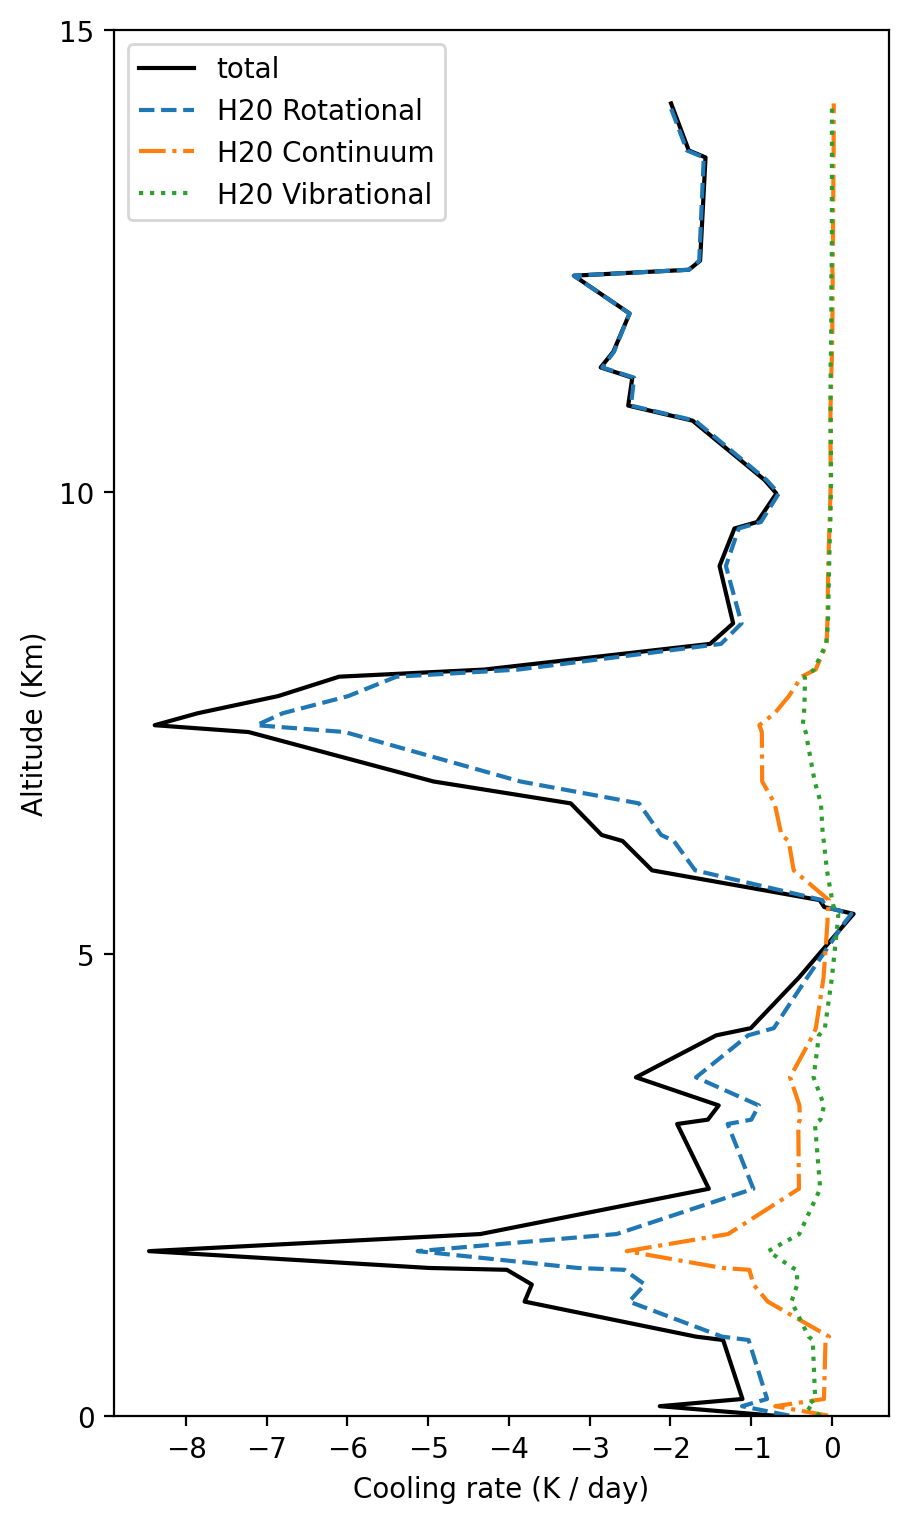
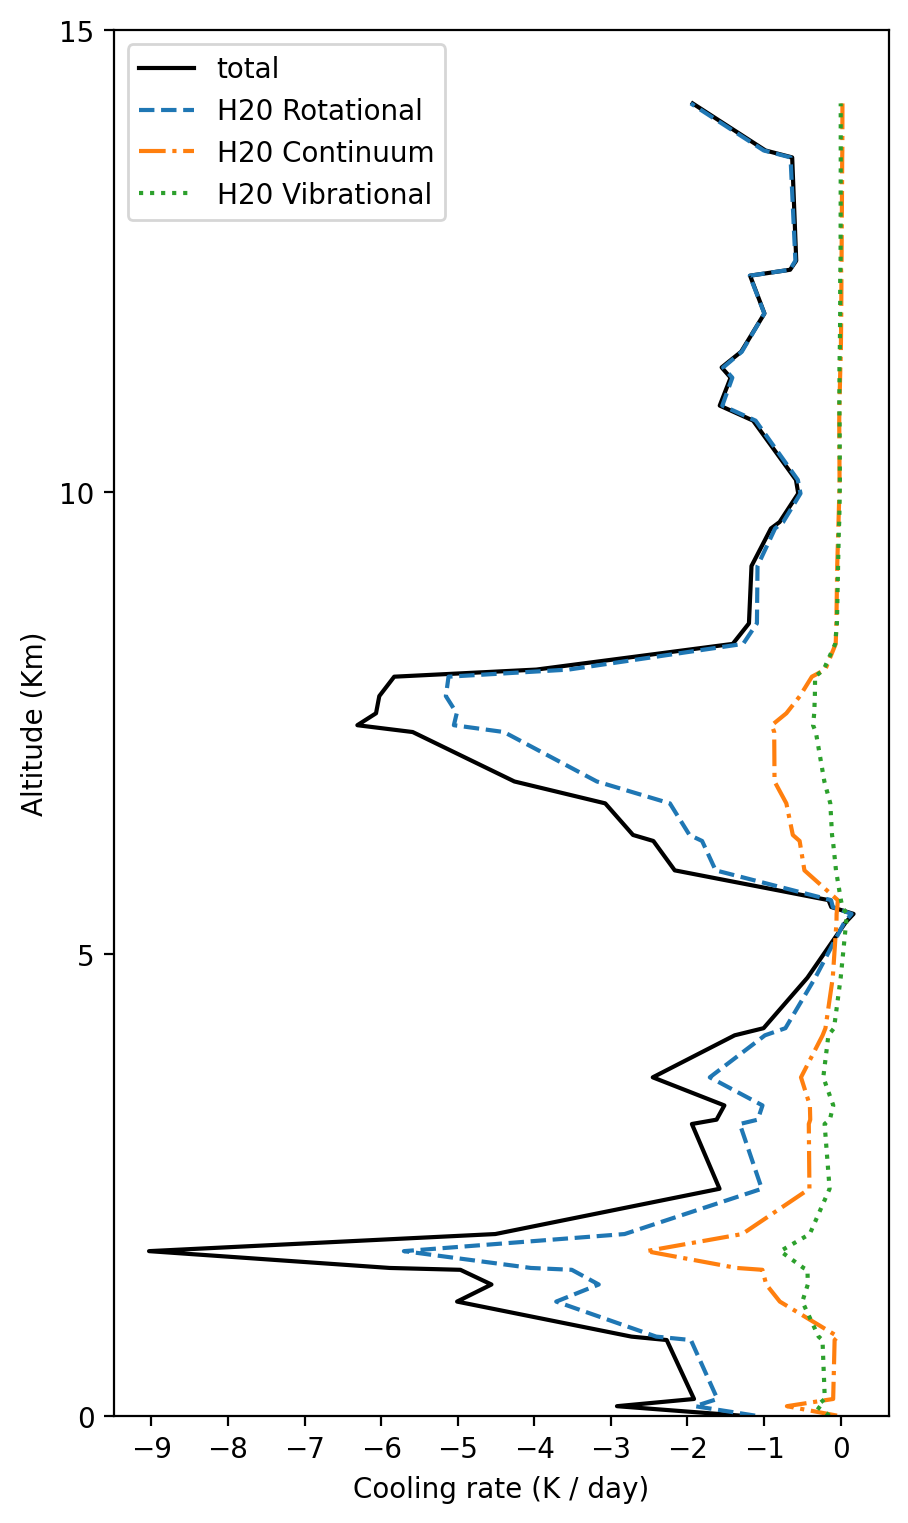
Controle

diff --git a/Scripts/exemplo.py b/Scripts/exemplo.py
@@ -44,9 +44,44 @@ def wyoming_read(file_path):
 	df['temp'] = df.temp + 273.15 # °C para K
 	df['dwpt'] = df.dwpt + 273.15 # °C para K
 
-	# filtra e retorna
-	return df[colunas[:-5]]
+	# Converte a razao de mistura pra kg / kg
+	df['mixr'] = df['mixr'] * 1e-3
 
+	# Filtra para z < 15 km e as pega as colunas necessarias
+	df = df.loc[df['hght'] < 15000][colunas[:-5]]
+
+	# Calcula a densidade do vapor
+	df['vapor_density'] = density_water_vapor(
+		T = df['temp'],
+		Td  = df['dwpt'],
+		p = df['pres'],
+		w = df['mixr'] # kg / kg
+	) # em Kg / m³
+
+	# Calcula o path length [Kg / m²]
+	df['u'] = path_length(df['vapor_density'].values, df['hght'].values)
+
+	# converte para g/cm²
+	df['u'] = df['u'] * 1e-1
+
+	# filtra e retorna
+	return df
+
+
+def read_test(path_name):
+	df = pd.read_csv(path_name, header = 0)
+
+	# Calcula a razao de mistura [g/kg]
+	df['mixr'] = df['water_dens'] / df['air_dens'] * 1e3
+
+	# Calcula o path length [Kg / m²]
+	df['u'] = path_length(df['water_dens'].values * 1e-3, df['hght'].values)
+
+	# converte para g/cm²
+	df['u'] = df['u'] * 1e-1
+
+	# filtra e retorna
+	return df
 
 def figure(df):
 	fig, ax  = plt.subplots(figsize = (5, 9))
@@ -71,30 +106,14 @@ def figure(df):
 	
 	# LEgenda e salva
 	plt.legend()
-	name = r'D:\Lucas\Mestrado\Disciplinas\Radiacao Solar Terrestre\Rad-PPGM\resultado_sbgl_12z_13jul23.png'
+	name = r'D:\Lucas\Mestrado\Disciplinas\Radiacao Solar Terrestre\Rad-PPGM\resultado.png'
 	fig.savefig(name, bbox_inches = 'tight', dpi = 200)
 	plt.close()
 
 
 if __name__ == '__main__':
-	df = wyoming_read(r"Dados/sbgl_00z_06ago23.txt")
-    
-	# Filtra para z < 15 km
-	df = df.loc[df['hght'] < 15000]
-
-	# Calcula a densidade do vapor
-	df['vapor_density'] = density_water_vapor(
-		T = df['temp'],
-		Td  = df['dwpt'],
-		p = df['pres'],
-		w = df['mixr'] * 1e-3 # converte para kg / kg
-	) # em Kg / m³
-
-	# Calcula o path length [Kg / m²]
-	df['u'] = path_length(df['vapor_density'].values, df['hght'].values)
-
-	# converte para g/cm²
-	df['u'] = df['u'] * 1e-1
+	# df = wyoming_read(r"Dados/sbgl_00z_06ago23.txt")
+	df = read_test(r"D:\Lucas\Mestrado\Disciplinas\Radiacao Solar Terrestre\Rad-PPGM\Dados\perfil_vinicius.txt")
 
 	# Cooling rate (sem nuvens)
 	df['cr_nc_rot'] = cooling_rate.no_clouds(
@@ -130,5 +149,5 @@ if __name__ == '__main__':
 	)
 
 	print(df)
-	df.to_csv(r'D:\Lucas\Mestrado\Disciplinas\Radiacao Solar Terrestre\Rad-PPGM\resultado_sbgl_12z_13jul23.csv', index = False)
+	df.to_csv(r'D:\Lucas\Mestrado\Disciplinas\Radiacao Solar Terrestre\Rad-PPGM\resultado.csv', index = False)
 	figure(df)

diff --git a/Scripts/broadband.py b/Scripts/broadband.py
@@ -140,11 +140,12 @@ def transmitance_rotational_H2O(T, u):
 	# Calculos
 	# ------------------------------------------------------------
 	T0 = 260 # K
-	S_S0 = np.exp(a * (T - T0) + b * (T - T0) ** 2) # S / S0
+	a1 = np.exp(a * (T - T0) + b * (T - T0) ** 2) # S / S0
+	a2 = np.exp(a_ * (T - T0) + b_ * (T - T0) ** 2)
 
 	# Transmitancia Difusa
-	termo_raiz = 1 + 1.66 * S_S0 * Rw2 / Rw1 * u
-	transmitance = 1.66 * S_S0 * Rw1 * u / np.power(termo_raiz, 0.5)
+	termo_raiz = 1 + 1.66 * (a1 ** 2 / a2) * (Rw1 / Rw2) * u
+	transmitance = 1.66 * a1 * Rw1 * u / np.power(termo_raiz, 0.5)
 	transmitance = np.exp(-transmitance)
 	
 	return (intervalos, transmitance)
